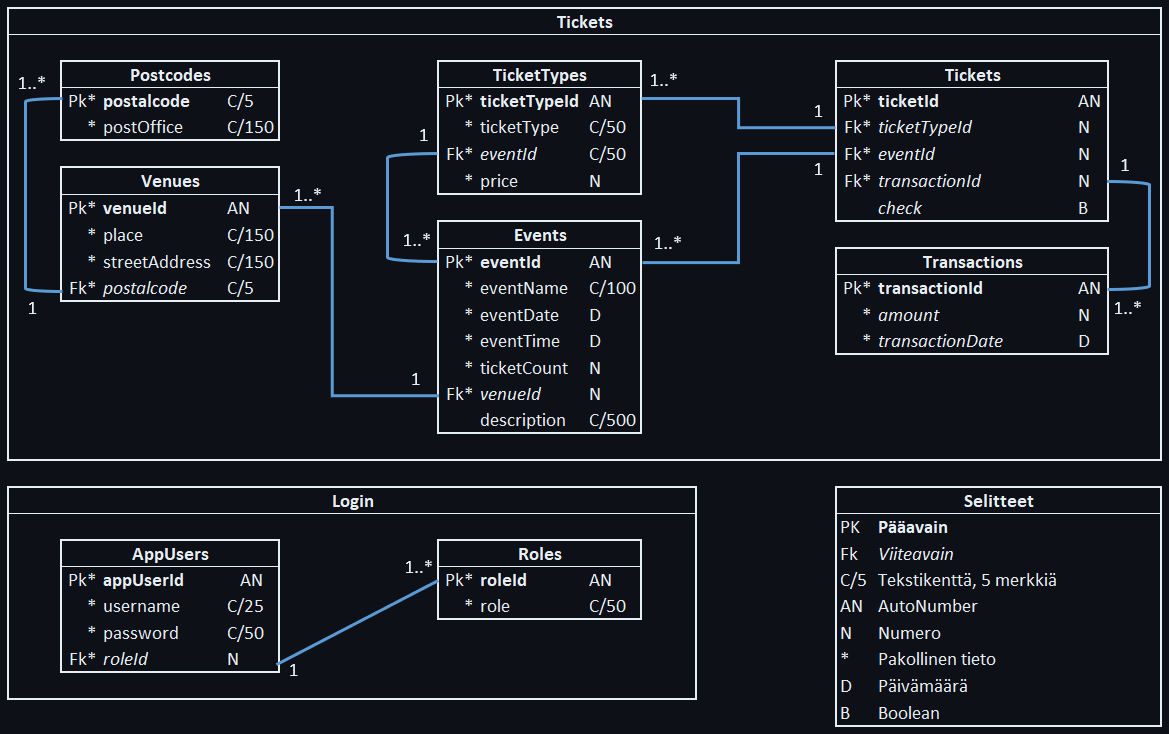
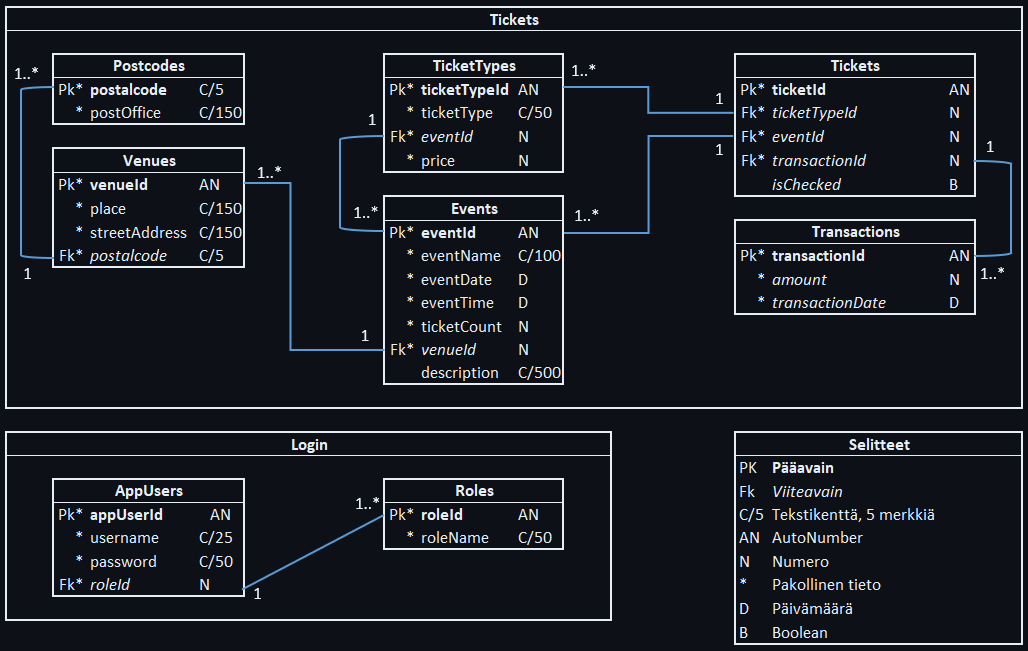
Tehty viimeistelyt ja korjaukset edellisen viikon sprinttiin

diff --git a/src/main/java/Ohjelmistoprojekti/TicketGuru/domain/Event.java b/src/main/java/Ohjelmistoprojekti/TicketGuru/domain/Event.java
@@ -6,6 +6,8 @@ import jakarta.persistence.Entity;
 import jakarta.persistence.GeneratedValue;
 import jakarta.persistence.GenerationType;
 import jakarta.persistence.Id;
+import jakarta.persistence.JoinColumn;
+import jakarta.persistence.ManyToOne;
 import jakarta.persistence.OneToMany;
 import jakarta.persistence.Table;
 import jakarta.validation.constraints.Size;
@@ -31,35 +33,32 @@ public class Event {
 	private String description;
 
 	@Column(nullable = false)
-	private String date;
-	
+	private String eventDate;
+
+	@Column(nullable = false)
+	private String eventTime;
+
 	@Column(nullable = false)
 	private int ticketCount;
-	
-	@Column(nullable = false)
-	private int venueId;
+
+	@ManyToOne
+	@JoinColumn(name = "venueId")
+	private Venue venue;
 
 	public Event() {
 
 	}
 
-	public Event(List<Ticket> tickets, String eventName, String date, int ticketCount, int venueId,
-			String description) {
+	public Event(List<Ticket> tickets, String eventName, String description, String eventDate, String eventTime,
+			int ticketCount, Venue venue) {
 		super();
 		this.tickets = tickets;
 		this.eventName = eventName;
-		this.date = date;
-		this.ticketCount = ticketCount;
-		this.venueId = venueId;
 		this.description = description;
-	}
-
-	public long getEventId() {
-		return eventId;
-	}
-
-	public void setEventId(long eventId) {
-		this.eventId = eventId;
+		this.eventDate = eventDate;
+		this.eventTime = eventTime;
+		this.ticketCount = ticketCount;
+		this.venue = venue;
 	}
 
 	public List<Ticket> getTickets() {
@@ -78,12 +77,28 @@ public class Event {
 		this.eventName = eventName;
 	}
 
-	public String getDate() {
-		return date;
+	public String getDescription() {
+		return description;
 	}
 
-	public void setDate(String date) {
-		this.date = date;
+	public void setDescription(String description) {
+		this.description = description;
+	}
+
+	public String getEventDate() {
+		return eventDate;
+	}
+
+	public void setEventDate(String eventDate) {
+		this.eventDate = eventDate;
+	}
+
+	public String getEventTime() {
+		return eventTime;
+	}
+
+	public void setEventTime(String eventTime) {
+		this.eventTime = eventTime;
 	}
 
 	public int getTicketCount() {
@@ -94,20 +109,19 @@ public class Event {
 		this.ticketCount = ticketCount;
 	}
 
-	public int getVenueId() {
-		return venueId;
+	public Venue getVenue() {
+		return venue;
 	}
 
-	public void setVenueId(int venueId) {
-		this.venueId = venueId;
+	public void setVenue(Venue venue) {
+		this.venue = venue;
 	}
 
-	public String getDescription() {
-		return description;
-	}
-
-	public void setDescription(String description) {
-		this.description = description;
+	@Override
+	public String toString() {
+		return "Event [eventId=" + eventId + ", tickets=" + tickets + ", eventName=" + eventName + ", description="
+				+ description + ", eventDate=" + eventDate + ", eventTime=" + eventTime + ", ticketCount=" + ticketCount
+				+ ", venue=" + venue + "]";
 	}
 
 }

diff --git a/src/main/java/Ohjelmistoprojekti/TicketGuru/domain/Transaction.java b/src/main/java/Ohjelmistoprojekti/TicketGuru/domain/Transaction.java
@@ -1,45 +1,77 @@
 package Ohjelmistoprojekti.TicketGuru.domain;
 
-import jakarta.persistence.*;
+import java.util.List;
+
+import jakarta.persistence.Column;
+import jakarta.persistence.Entity;
+import jakarta.persistence.GeneratedValue;
+import jakarta.persistence.GenerationType;
+import jakarta.persistence.Id;
+import jakarta.persistence.OneToMany;
+import jakarta.persistence.Table;
 
 @Entity
 @Table(name = "Transactions")
 public class Transaction {
 
-    @Id
-    @GeneratedValue(strategy = GenerationType.IDENTITY)
-    @Column(nullable = false)
-    private Long transactionId;
+	@Id
+	@GeneratedValue(strategy = GenerationType.IDENTITY)
+	@Column(nullable = false)
+	private Long transactionId;
 
-    private double amount;
-    private String transactionDate;
+	private double amount;
 
-    @ManyToOne
-    @JoinColumn(name = "ticketId")
-    private Ticket ticket;
+	private String transactionDate;
 
-    public Transaction() {
-    }
+	@OneToMany(mappedBy = "transaction")
+	private List<Ticket> tickets;
 
-    public Transaction(double amount, String transactionDate, Ticket ticket) {
-        this.amount = amount;
-        this.transactionDate = transactionDate;
-        this.ticket = ticket;
-    }
+	public Transaction() {
+	}
 
-    public Long getTransactionId() {
-        return transactionId;
-    }
+	public Transaction(double amount, String transactionDate, List<Ticket> tickets) {
+		super();
+		this.amount = amount;
+		this.transactionDate = transactionDate;
+		this.tickets = tickets;
+	}
 
-    public double getAmount() {
-        return amount;
-    }
+	public Long getTransactionId() {
+		return transactionId;
+	}
 
-    public String getTransactionDate() {
-        return transactionDate;
-    }
+	public void setTransactionId(Long transactionId) {
+		this.transactionId = transactionId;
+	}
 
-    public Ticket getTicket() {
-        return ticket;
-    }
+	public double getAmount() {
+		return amount;
+	}
+
+	public void setAmount(double amount) {
+		this.amount = amount;
+	}
+
+	public String getTransactionDate() {
+		return transactionDate;
+	}
+
+	public void setTransactionDate(String transactionDate) {
+		this.transactionDate = transactionDate;
+	}
+
+	public List<Ticket> getTickets() {
+		return tickets;
+	}
+
+	public void setTickets(List<Ticket> tickets) {
+		this.tickets = tickets;
+	}
+
+	@Override
+	public String toString() {
+		return "Transaction [transactionId=" + transactionId + ", amount=" + amount + ", transactionDate="
+				+ transactionDate + ", tickets=" + tickets + "]";
+	}
+
 }

diff --git a/src/main/java/Ohjelmistoprojekti/TicketGuru/domain/TicketType.java b/src/main/java/Ohjelmistoprojekti/TicketGuru/domain/TicketType.java
@@ -4,9 +4,12 @@ import java.util.List;
 
 import jakarta.persistence.Column;
 import jakarta.persistence.Entity;
+import jakarta.persistence.FetchType;
 import jakarta.persistence.GeneratedValue;
 import jakarta.persistence.GenerationType;
 import jakarta.persistence.Id;
+import jakarta.persistence.JoinColumn;
+import jakarta.persistence.ManyToOne;
 import jakarta.persistence.OneToMany;
 import jakarta.persistence.Table;
 import jakarta.validation.constraints.Size;
@@ -19,10 +22,6 @@ public class TicketType {
 	@Column(nullable = false, updatable = false)
 	private Long ticketTypeId;
 
-	@Size(min = 1, max = 10)
-	@Column(nullable = false)
-	private String price;
-
 	@Size(min = 1, max = 50)
 	@Column(nullable = false)
 	private String ticketType;
@@ -30,10 +29,17 @@ public class TicketType {
 	@OneToMany(mappedBy = "ticketType")
 	private List<Ticket> tickets;
 
+	@ManyToOne(fetch = FetchType.EAGER)
+	@JoinColumn(name = "eventId")
+	private Event event;
+
+	@Column(nullable = false)
+	private double price;
+
 	public TicketType() {
 	}
 
-	public TicketType(String price, List<Ticket> tickets) {
+	public TicketType(double price, List<Ticket> tickets) {
 		this.price = price;
 		this.tickets = tickets;
 	}
@@ -46,11 +52,11 @@ public class TicketType {
 		this.ticketTypeId = ticketTypeId;
 	}
 
-	public String getPrice() {
+	public double getPrice() {
 		return price;
 	}
 
-	public void setPrice(String price) {
+	public void setPrice(double price) {
 		this.price = price;
 	}
 

diff --git a/src/main/java/Ohjelmistoprojekti/TicketGuru/domain/Ticket.java b/src/main/java/Ohjelmistoprojekti/TicketGuru/domain/Ticket.java
@@ -26,18 +26,21 @@ public class Ticket {
 	@JoinColumn(name = "ticketTypeId")
 	private TicketType ticketType;
 
+	@ManyToOne(fetch = FetchType.EAGER)
+	@JoinColumn(name = "transactionId")
+	private Transaction transaction;
+
+	private Boolean isChecked;
+
 	public Ticket() {
 	}
 
-	public Ticket(Event event, TicketType ticketType) {
+	public Ticket(Event event, TicketType ticketType, Transaction transaction, Boolean isChecked) {
+		super();
 		this.event = event;
 		this.ticketType = ticketType;
-	}
-
-	public Ticket(Long ticketId, TicketType ticketType) {
-		super();
-		this.ticketId = ticketId;
-		this.ticketType = ticketType;
+		this.transaction = transaction;
+		this.isChecked = isChecked;
 	}
 
 	public Long getTicketId() {
@@ -64,9 +67,26 @@ public class Ticket {
 		this.ticketType = ticketType;
 	}
 
+	public Transaction getTransaction() {
+		return transaction;
+	}
+
+	public void setTransaction(Transaction transaction) {
+		this.transaction = transaction;
+	}
+
+	public Boolean getIsChecked() {
+		return isChecked;
+	}
+
+	public void setIsChecked(Boolean isChecked) {
+		this.isChecked = isChecked;
+	}
+
 	@Override
 	public String toString() {
-		return "Ticket [ticketId=" + ticketId + ", event=" + event + ", ticketType=" + ticketType + "]";
+		return "Ticket [ticketId=" + ticketId + ", event=" + event + ", ticketType=" + ticketType + ", transaction="
+				+ transaction + ", isChecked=" + isChecked + "]";
 	}
 
 }

diff --git a/README.md b/README.md
@@ -133,13 +133,13 @@ _TicketTypes-taulu sisältää lipputyypit. Yhdellä lipulla on yksi lipputyyppi
 ### Tickets
 
 _Tickets-taulu sisältää lipun tiedot. Yksi lippu sisältää yhden tapahtuman ja yhden lipputyypin tiedot._
-| Kenttä        | Tyyppi  | Kuvaus                                  |
-|---------------|---------|-----------------------------------------|
-| ticketId      | Long PK | Lipun yksilöllinen tunniste, not null   |
-| ticketTypeId  | int FK  | Viittaus TicketTypes-tauluun, not null  |
-| eventId       | int FK  | Viittaus Events-tauluun, not null       |
-| transactionId | int FK  | Viittaus transactions-tauluun, not null |
-| check         | Boolean | Onko lippu tarkistettu, not null        |
+| Kenttä        | Tyyppi  | Kuvaus                                              |
+|---------------|---------|-----------------------------------------------------|
+| ticketId      | Long PK | Lipun yksilöllinen tunniste, not null               |
+| ticketTypeId  | int FK  | Viittaus TicketTypes-tauluun, not null              |
+| eventId       | int FK  | Viittaus Events-tauluun, not null                   |
+| transactionId | int FK  | Viittaus transactions-tauluun, not null             |
+| isChecked     | Boolean | Onko lippu tarkistettu, true = tarkistettu not null |
 ---
 
 ### Events
@@ -182,12 +182,12 @@ _Postcodes-taulu sisältää postinumerot, ja niihin linkittyvät postitoimipaik
 
 ### Transactions
 
-_Transactions-taulu sisältää tapahtumat._
+_Transactions-taulu sisältää maksutapahtumat._
 | Kenttä          | Tyyppi  | Kuvaus                                                   |
 |-----------------|---------|----------------------------------------------------------|
 | transactionId   | long PK | transactionid toimii yksilöllisenä tunnisteena, not null |
-| amount          | Double  | tapahtuman summa, not null                               |
-| transactionDate | String  | tapahtuman päivämäärä, not null                          |
+| amount          | Double  | maksutapahtuman summa, not null                          |
+| transactionDate | String  | maksutapahtuman päivämäärä, not null                     |
 
 ---
 
